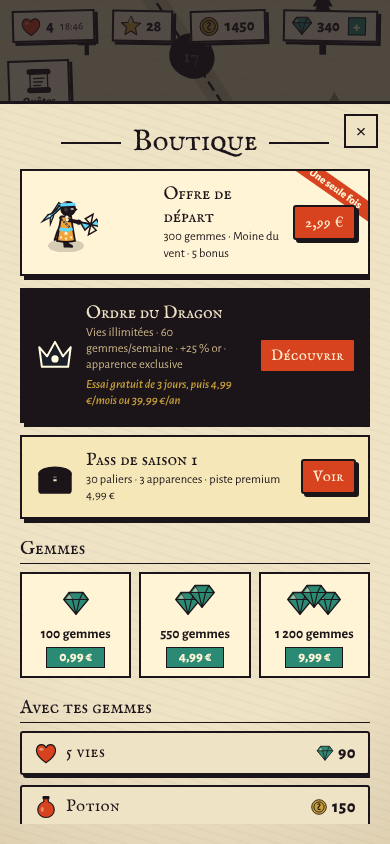
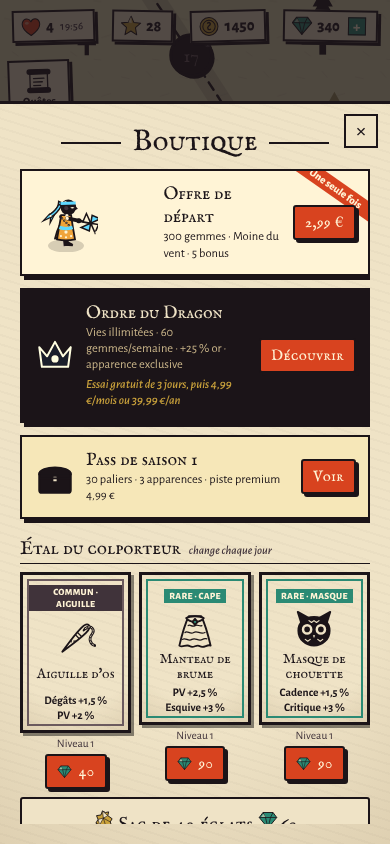
Étal du colporteur : trois objets précis par jour contre des gemmes, sac d'éclats (web, cœur Swift)
Décision du porteur : l'équipement peut s'acheter. Sans hasard : trois objets du jour visibles avant
l'achat (mêmes pour tous), jamais légendaires ; niveaux calibrés sur le parcours gratuit.

Claude-Session: https://claude.ai/code/session_01WrTjvjF3uU78Yg77oLpHAu

Changed region(s): [[0.0308, 0.6161, 0.9538, 0.9858], [0.1231, 0.2156, 0.2462, 0.3081]]

diff --git a/web/src/menus.ts b/web/src/menus.ts
@@ -1,7 +1,8 @@
 /** §12.6 Écrans secondaires : Héros et talents, Boutique, Tournoi, Réglages (feuilles depuis la carte). */
 import { HEROES, POWER_BY_ID, type HeroId, type PowerId } from '../../sim/src/content.js';
-import { heroUnlocked, heroUnlockText } from './meta.js';
-import { gearPanel } from './gearui.js';
+import { heroUnlocked, heroUnlockText, todayStall, buyStall, buyShards } from './meta.js';
+import { gearPanel, itemCard, gearIcon } from './gearui.js';
+import { GEAR_BY_ID, SHARD_PACK } from '../../sim/src/gear.js';
 import { TALENTS } from '../../sim/src/constants.js';
 import { tournamentScore } from '../../sim/src/formulas.js';
 import { INK_UI, INK_POWERS, iconURL } from '../../art/src/icons.js';
@@ -190,6 +191,12 @@ export function shopSheet(onChange: () => void): void {
     `<div class="offer starter${s.starterPack ? ' owned' : ''}"><div class="ribbon">Une seule fois</div><div class="of-sprite" data-sprite="windMonk"></div><div><b>Offre de départ</b><small>300 gemmes · Moine du vent · 5 bonus</small></div><button class="btn primary small" data-buy="starter" ${s.starterPack ? 'disabled' : ''}>${s.starterPack ? 'Acquise' : '2,99 €'}</button></div>
     <div class="offer dragon"><img src="${iconURL(INK_UI.crown)}"/><div><b>Ordre du Dragon</b><small>Vies illimitées · ${DRAGON.weeklyGems} gemmes/semaine · +25 % or · apparence exclusive</small><small class="trial">${subscribed() ? 'Tu es membre de l’Ordre.' : s.subscription.trialUsed ? '4,99 €/mois ou 39,99 €/an' : 'Essai gratuit de 3 jours, puis 4,99 €/mois ou 39,99 €/an'}</small></div><button class="btn primary small dragon-open">${subscribed() ? 'Gérer' : 'Découvrir'}</button></div>
     <div class="offer pass-offer"><img src="${iconURL(INK_UI.chest)}" alt=""/><div><b>Pass de saison ${s.pass.season}</b><small>${s.pass.premium ? 'Piste premium débloquée · réclame tes récompenses' : `30 paliers · 3 apparences · piste premium ${PASS.price}`}</small></div><button class="btn primary small pass-open">${s.pass.premium ? 'Ouvrir' : 'Voir'}</button></div>
+    <h3 class="sec">Étal du colporteur <small>change chaque jour</small></h3>
+    <div class="stall">${todayStall()
+      .map((o, i) => `<div class="stall-item${o.bought ? ' sold' : ''}">${itemCard(GEAR_BY_ID[o.id], o.level, 'mini')}<small class="st-lvl">Niveau ${o.level}</small><button class="btn ${o.bought ? 'ghost' : 'primary'} small" data-stall="${i}" ${o.bought ? 'disabled' : ''}>${o.bought ? 'Acheté' : `<img src="${iconURL(INK_UI.gem)}" alt=""/>${o.price}`}</button></div>`)
+      .join('')}</div>
+    <button class="btn ghost shard-pack" data-shards="1"><img src="${gearIcon('shard')}" alt=""/> Sac de ${SHARD_PACK.shards} éclats <em><img src="${iconURL(INK_UI.gem)}"/>${SHARD_PACK.gems}</em></button>
+    <p class="fine left">Trois objets précis chaque jour, visibles avant l’achat. Les objets légendaires ne se gagnent qu’en battant les boss de fin de royaume.</p>
     <h3 class="sec">Gemmes</h3>
     <div class="gem-grid">${PRODUCTS.map((p, i) => `<button class="gem-pack" data-buy="${p.id}"><div class="gp-gems" style="--n:${i + 1}">${`<img src="${iconURL(INK_UI.gem)}"/>`.repeat(i + 1)}</div><b>${p.note}</b><span class="price">${p.price}</span></button>`).join('')}</div>
     <h3 class="sec">Avec tes gemmes</h3>
@@ -197,7 +204,7 @@ export function shopSheet(onChange: () => void): void {
     <button class="btn ghost" data-spend="potion"><img src="${iconURL(INK_UI.potion)}"/> Potion <em><img src="${iconURL(INK_UI.coin)}"/>150</em></button>
     <button class="btn ghost" data-spend="scroll"><img src="${iconURL(INK_UI.scroll)}"/> Parchemin <em><img src="${iconURL(INK_UI.gem)}"/>${BONUS_PRICE.scroll.amount}</em></button>
     <button class="btn ghost" data-spend="aegis"><img src="${iconURL(INK_UI.aegis)}"/> Égide <em><img src="${iconURL(INK_UI.coin)}"/>200</em></button></div>
-    <p class="fine">Prototype web : les achats réels passent par StoreKit 2 dans l’app iOS. Ici, ils sont simulés. Aucun objet aléatoire. Publicité seulement si tu la demandes, contre une vie.</p>`,
+    <p class="fine">Prototype web : les achats réels passent par StoreKit 2 dans l’app iOS. Ici, ils sont simulés. Aucun objet aléatoire : tout ce qui s’achète est montré avant. Publicité seulement si tu la demandes, contre une vie.</p>`,
   );
   // §11 : la boutique est l'un des trois endroits où l'offre d'abonnement est présentée
   o.querySelector('.dragon-open')!.addEventListener('click', () => openDragon('shop', onChange));
@@ -225,6 +232,26 @@ export function shopSheet(onChange: () => void): void {
       onChange();
     }),
   );
+  o.querySelectorAll<HTMLButtonElement>('[data-stall]').forEach((b) =>
+    b.addEventListener('click', () => {
+      const r = buyStall(Number(b.dataset.stall));
+      if (r === 'gems') return toast('Pas assez de gemmes');
+      if (r !== 'ok') return;
+      sfx('loot');
+      toast('Objet ajouté à ton équipement ✓');
+      b.disabled = true;
+      b.className = 'btn ghost small';
+      b.textContent = 'Acheté';
+      b.closest('.stall-item')?.classList.add('sold');
+      onChange();
+    }),
+  );
+  o.querySelector<HTMLButtonElement>('[data-shards]')!.addEventListener('click', () => {
+    if (!buyShards()) return toast('Pas assez de gemmes');
+    sfx('tap');
+    toast(`+${SHARD_PACK.shards} éclats ✓`);
+    onChange();
+  });
   o.querySelectorAll<HTMLButtonElement>('[data-spend]').forEach((b) =>
     b.addEventListener('click', () => {
       const k = b.dataset.spend!;

diff --git a/sim/src/gear.ts b/sim/src/gear.ts
@@ -209,3 +209,37 @@ export function expectedGear(n: number): GearItem[] {
   for (const [, v] of best) out.push({ uid: uid++, id: v.def.id, level: v.level });
   return out;
 }
+
+// ─────────────────────────── étal du colporteur ───────────────────────────
+
+/**
+ * Boutique (décision du porteur, DECISIONS #79) : l'équipement s'achète aussi, sans hasard. Chaque jour, trois objets
+ * précis, affichés avant l'achat (les mêmes pour tous ce jour-là), contre des gemmes ; les légendaires restent des
+ * trophées de boss. Les niveaux sont calibrés sur le parcours gratuit (butin des niveaux), pas sur ces achats.
+ */
+export const STALL_PRICE: Record<GearRarity, number> = { common: 40, rare: 90, epic: 220, legendary: 0 };
+/** Sac d'éclats (amélioration) contre des gemmes. */
+export const SHARD_PACK = { shards: 40, gems: 60 } as const;
+
+/** Graine du jour (FNV-1a de « AAAA-MM-JJ », comme les quêtes du jour). */
+export function dayHash(day: string): number {
+  let h = 2166136261;
+  for (let i = 0; i < day.length; i++) h = Math.imul(h ^ day.charCodeAt(i), 16777619) >>> 0;
+  return h;
+}
+
+/** Les trois objets du jour, selon la progression (niveau le plus loin débloqué). */
+export function stallOffers(day: string, progress: number): { id: string; level: number; price: number }[] {
+  const seed = dayHash(day);
+  const rarities: GearRarity[] = progress >= 40 ? ['rare', 'rare', 'epic'] : ['common', 'rare', 'rare'];
+  const lvl = 1 + Math.floor(Math.max(0, progress - 40) / 30);
+  const out: { id: string; level: number; price: number }[] = [];
+  for (let i = 0; i < 3; i++) {
+    const slot = SLOTS[(seed % 4 + i) % 4];
+    const rarity = rarities[i];
+    const pool = GEAR.filter((g) => g.slot === slot && g.rarity === rarity);
+    const def = pool[hash32(seed + i * 7919) % pool.length];
+    out.push({ id: def.id, level: Math.max(1, Math.min(MAX_LEVEL[rarity], lvl)), price: STALL_PRICE[rarity] });
+  }
+  return out;
+}

diff --git a/ios/Core/Gear.swift b/ios/Core/Gear.swift
@@ -264,4 +264,41 @@ public enum Gear {
 
     /// Équipement attendu au niveau n, en bonus (comme `gearForLevel`).
     public static func forLevel(_ n: Int) -> GearStats { stats(expected(n)) }
+
+    // MARK: étal du colporteur (DECISIONS #79)
+
+    /// Prix en gemmes par rareté (les légendaires ne sont jamais vendus).
+    public static func stallPrice(_ r: GearRarity) -> Int {
+        switch r {
+        case .common: 40
+        case .rare: 90
+        case .epic: 220
+        case .legendary: 0
+        }
+    }
+    /// Sac d'éclats (amélioration) contre des gemmes.
+    public static let shardPack = (shards: 40, gems: 60)
+
+    /// Graine du jour (FNV-1a de « AAAA-MM-JJ », comme les quêtes du jour).
+    public static func dayHash(_ day: String) -> UInt32 {
+        var h: UInt32 = 2_166_136_261
+        for c in day.utf16 { h = (h ^ UInt32(c)) &* 16_777_619 }
+        return h
+    }
+
+    /// Les trois objets du jour, selon la progression (niveau le plus loin débloqué) : mêmes résultats que le web.
+    public static func stallOffers(day: String, progress: Int) -> [(id: String, level: Int, price: Int)] {
+        let seed = dayHash(day)
+        let rarities: [GearRarity] = progress >= 40 ? [.rare, .rare, .epic] : [.common, .rare, .rare]
+        let lvl = 1 + max(0, progress - 40) / 30
+        var out: [(id: String, level: Int, price: Int)] = []
+        for i in 0..<3 {
+            let slot = GearSlot.allCases[(Int(seed % 4) + i) % 4]
+            let rarity = rarities[i]
+            let pool = all.filter { $0.slot == slot && $0.rarity == rarity }
+            let def = pool[Int(hash32(Int(seed) + i * 7919) % UInt32(pool.count))]
+            out.append((def.id, max(1, min(maxLevel(rarity), lvl)), stallPrice(rarity)))
+        }
+        return out
+    }
 }

diff --git a/web/src/meta.ts b/web/src/meta.ts
@@ -13,6 +13,8 @@ import {
   upgradeCost,
   salvageValue,
   mainValue,
+  stallOffers,
+  SHARD_PACK,
   type GearItem,
   type GearSlot,
   type GearStats,
@@ -60,6 +62,47 @@ export function addItem(id: string, level = 1): GearItem {
   if (g.equipped[slot] === undefined) g.equipped[slot] = it.uid;
   persist();
   return it;
+}
+
+// ───────────────────────────── étal du colporteur (DECISIONS #79) ─────────────────────────────
+
+export interface StallOffer {
+  id: string;
+  level: number;
+  price: number;
+  bought: boolean;
+}
+
+/** Les trois objets du jour (les mêmes pour tous ce jour-là), et ceux déjà achetés. */
+export function todayStall(): StallOffer[] {
+  const s = save();
+  const day = localDay(new Date());
+  if (s.gear.stall?.day !== day) s.gear.stall = { day, bought: [] };
+  const bought = s.gear.stall.bought;
+  return stallOffers(day, s.unlocked).map((o, i) => ({ ...o, bought: bought.includes(i) }));
+}
+
+/** Achète l'objet i de l'étal contre des gemmes (une fois par jour). */
+export function buyStall(i: number): 'ok' | 'gems' | 'bought' {
+  const s = save();
+  const o = todayStall()[i];
+  if (!o || o.bought) return 'bought';
+  if (s.gems < o.price) return 'gems';
+  s.gems -= o.price;
+  s.gear.stall!.bought.push(i);
+  addItem(o.id, o.level);
+  persist();
+  return 'ok';
+}
+
+/** Sac d'éclats contre des gemmes. */
+export function buyShards(): boolean {
+  const s = save();
+  if (s.gems < SHARD_PACK.gems) return false;
+  s.gems -= SHARD_PACK.gems;
+  s.gear.shards += SHARD_PACK.shards;
+  persist();
+  return true;
 }
 
 export function equip(uid: number): void {

diff --git a/web/src/style.css b/web/src/style.css
@@ -639,3 +639,19 @@ img { -webkit-user-drag: none; }
 .sheet .sheet-head { padding: 0 36px; }
 .sheet-head .lvl-num { white-space: nowrap; }
 .sheet.tall .lvl-num { font-size: 30px; }
+
+/* Étal du colporteur (DECISIONS #79) : trois fiches compactes, prix en gemmes */
+.stall { display: grid; grid-template-columns: repeat(3, minmax(0, 1fr)); gap: 8px; margin: 6px 0 8px; }
+.stall-item { display: flex; flex-direction: column; align-items: center; gap: 4px; }
+.stall-item .gcard.mini { width: 100%; padding: 10px 6px 8px; box-shadow: 3px 3px 0 rgba(0,0,0,.45); }
+.stall-item .gcard.mini::before { inset: 4px; }
+.gcard.mini .gc-rar { font-size: 9.5px; letter-spacing: .3px; padding: 1px 5px; }
+.gcard.mini .gc-icon img { width: 40px; height: 40px; }
+.gcard.mini .gc-name { font-size: 14px; min-height: 2.2em; display: flex; align-items: center; justify-content: center; }
+.gcard.mini .gc-stats { font-size: 11.5px; margin: 4px 0 0; }
+.gcard.mini .gc-lore { display: none; }
+.stall-item .st-lvl { font-size: 11.5px; color: var(--ink-2); }
+.stall-item .btn img { width: 15px; height: 15px; vertical-align: -2px; margin-right: 3px; }
+.stall-item.sold .gcard { opacity: .55; }
+.shard-pack { width: 100%; justify-content: center; }
+.shard-pack img { width: 20px; height: 20px; }

diff --git a/sim/test/heroes.test.ts b/sim/test/heroes.test.ts
@@ -18,6 +18,7 @@ import {
   salvageValue,
   MAX_LEVEL,
   expectedGear,
+  stallOffers,
   talentsAtRank,
   GUST,
   type RoomTemplate,
@@ -213,6 +214,17 @@ describe('Équipement (DECISIONS #75)', () => {
       expect(upgradeCost(def, MAX_LEVEL[def.rarity])).toBeNull();
       expect(salvageValue(def, 5)).toBeGreaterThan(salvageValue(def, 1));
     }
+  });
+
+  it('étal du colporteur : trois objets du jour, sans hasard, jamais légendaires', () => {
+    const a = stallOffers('2026-11-09', 120);
+    expect(a).toEqual(stallOffers('2026-11-09', 120));
+    expect(a.length).toBe(3);
+    expect(new Set(a.map((o) => GEAR_BY_ID[o.id].slot)).size).toBe(3);
+    for (const o of a) expect(GEAR_BY_ID[o.id].rarity).not.toBe('legendary');
+    expect(GEAR_BY_ID[a[2].id].rarity).toBe('epic');
+    expect(stallOffers('2026-11-10', 120)).not.toEqual(a);
+    expect(stallOffers('2026-11-09', 10).every((o) => GEAR_BY_ID[o.id].rarity !== 'epic')).toBe(true);
   });
 
   it('équipement attendu (modèle des bots) qui progresse avec la saga', () => {

diff --git a/ios/Tests/CoreTests.swift b/ios/Tests/CoreTests.swift
@@ -196,6 +196,11 @@ final class CoreTests: XCTestCase {
         XCTAssertEqual(Gear.lootRarity(60), .legendary)
         XCTAssertEqual(computeStats(.atRank(4), [.damage: 2], gear: .none), computeStats(.atRank(4), [.damage: 2]))
         XCTAssertNil(Gear.upgradeCost(Gear.byID["paperMask"]!, 10))
+        // étal du colporteur : mêmes objets que le web (valeurs relevées sur `stallOffers` TypeScript)
+        XCTAssertEqual(Gear.stallOffers(day: "2026-11-09", progress: 120).map(\.id), ["moonNeedle", "mistMantle", "emberMask"])
+        XCTAssertEqual(Gear.stallOffers(day: "2026-11-09", progress: 120).map(\.level), [3, 3, 3])
+        XCTAssertEqual(Gear.stallOffers(day: "2026-11-10", progress: 30).map(\.id), ["paperMask", "paperCrane", "moonNeedle"])
+        XCTAssertEqual(Gear.stallOffers(day: "2026-11-10", progress: 30).map(\.price), [40, 90, 90])
     }
 
     func testReviveRestoresHalfHp() throws {

diff --git a/web/src/state.ts b/web/src/state.ts
@@ -74,6 +74,8 @@ export interface GearState {
   equipped: Partial<Record<GearSlot, number>>;
   nextUid: number;
   shards: number;
+  /** Étal du colporteur (DECISIONS #79) : objets du jour déjà achetés (index 0 à 2). */
+  stall?: { day: string; bought: number[] };
 }
 
 export interface QuestState {
